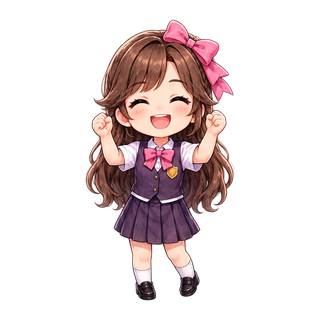
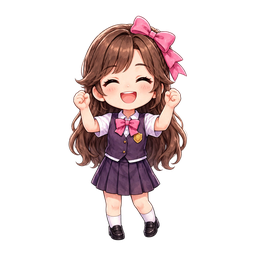
fix(rebus): seat students behind larger desks with 256px POT sprites

diff --git a/games/duoi-hinh-bat-chu/src/game/visuals/StudentCharacter.ts b/games/duoi-hinh-bat-chu/src/game/visuals/StudentCharacter.ts
@@ -18,13 +18,14 @@ export class StudentCharacter extends Phaser.GameObjects.Container {
   private avatarManager: AvatarManager;
   private skinId: string;
   private chibiSprite: Phaser.GameObjects.Sprite;
-  private poseTimer?: Phaser.Time.TimerEvent;
+  private uiOverlay: Phaser.GameObjects.Container;
   private nameText: Phaser.GameObjects.Text;
   private scoreText: Phaser.GameObjects.Text;
   private avatarImage: Phaser.GameObjects.Image | null = null;
   private avatarCircle: Phaser.GameObjects.Graphics;
   private streakBadge: Phaser.GameObjects.Container;
   private streakText: Phaser.GameObjects.Text;
+  private poseTimer?: Phaser.Time.TimerEvent;
 
   constructor(scene: Phaser.Scene, player: RebusPlayerRecord, avatarManager: AvatarManager, x: number, y: number, scale: number) {
     super(scene, x, y);
@@ -35,43 +36,47 @@ export class StudentCharacter extends Phaser.GameObjects.Container {
     this.skinId = SKIN_KEYS[player.skinIndex % SKIN_KEYS.length];
     const baseKey = `student_${this.skinId}`;
     const textureKey = scene.textures.exists(baseKey) ? baseKey : 'props_desk';
-    this.chibiSprite = scene.add.sprite(0, 0, textureKey);
+    this.chibiSprite = scene.add.sprite(0, 14, textureKey);
     this.chibiSprite.setOrigin(0.5, 0.85);
-    this.chibiSprite.setScale(0.56);
+    this.chibiSprite.setScale(0.72);
     this.add(this.chibiSprite);
+
+    // Overlay UI sits above the desk front layer (depth + 2)
+    this.uiOverlay = scene.add.container(x, y);
+    this.uiOverlay.setScale(scale);
 
     // Desk plate
     const plate = scene.add.graphics();
-    plate.fillStyle(0x0f172a, 0.85);
-    plate.fillRoundedRect(-50, 5, 100, 36, 8);
-    plate.lineStyle(1.5, player.team === 'blue' ? 0x38bdf8 : 0xf59e0b, 0.8);
-    plate.strokeRoundedRect(-50, 5, 100, 36, 8);
-    this.add(plate);
+    plate.fillStyle(0x0f172a, 0.88);
+    plate.fillRoundedRect(-52, 8, 104, 34, 8);
+    plate.lineStyle(1.5, player.team === 'blue' ? 0x38bdf8 : 0xf59e0b, 0.85);
+    plate.strokeRoundedRect(-52, 8, 104, 34, 8);
+    this.uiOverlay.add(plate);
 
-    this.nameText = scene.add.text(0, 14, player.nickname, {
+    this.nameText = scene.add.text(0, 17, player.nickname, {
       fontFamily: 'system-ui, sans-serif',
       fontSize: '13px',
       color: '#ffffff',
       fontStyle: 'bold',
     }).setOrigin(0.5);
-    this.add(this.nameText);
+    this.uiOverlay.add(this.nameText);
 
-    this.scoreText = scene.add.text(0, 29, `${player.score}`, {
+    this.scoreText = scene.add.text(0, 32, `${player.score}`, {
       fontFamily: 'system-ui, sans-serif',
       fontSize: '12px',
       color: '#facc15',
       fontStyle: 'bold',
     }).setOrigin(0.5);
-    this.add(this.scoreText);
+    this.uiOverlay.add(this.scoreText);
 
     this.avatarCircle = scene.add.graphics();
     this.avatarCircle.fillStyle(0x0f172a, 0.9);
-    this.avatarCircle.fillCircle(-32, -45, 16);
+    this.avatarCircle.fillCircle(-34, -44, 15);
     this.avatarCircle.lineStyle(2, 0xffd700, 1);
-    this.avatarCircle.strokeCircle(-32, -45, 16);
-    this.add(this.avatarCircle);
+    this.avatarCircle.strokeCircle(-34, -44, 15);
+    this.uiOverlay.add(this.avatarCircle);
 
-    this.streakBadge = scene.add.container(32, -45);
+    this.streakBadge = scene.add.container(34, -44);
     const flameBg = scene.add.graphics();
     flameBg.fillStyle(0xf97316, 0.95);
     flameBg.fillCircle(0, 0, 13);
@@ -87,11 +92,35 @@ export class StudentCharacter extends Phaser.GameObjects.Container {
     }).setOrigin(0.5);
     this.streakBadge.add(this.streakText);
     this.streakBadge.setVisible(player.streak >= 2);
-    this.add(this.streakBadge);
+    this.uiOverlay.add(this.streakBadge);
 
     this.setupAvatar();
     this.startIdleAnimation();
     scene.add.existing(this);
+  }
+
+  public override setPosition(x?: number, y?: number, z?: number, w?: number): this {
+    super.setPosition(x, y, z, w);
+    this.uiOverlay?.setPosition(this.x, this.y);
+    return this;
+  }
+
+  public override setScale(x: number, y?: number): this {
+    super.setScale(x, y);
+    this.uiOverlay?.setScale(this.scaleX, this.scaleY);
+    return this;
+  }
+
+  public override setDepth(value: number): this {
+    super.setDepth(value);
+    this.uiOverlay?.setDepth(value + 2);
+    return this;
+  }
+
+  public override destroy(fromScene?: boolean): void {
+    this.poseTimer?.remove(false);
+    this.uiOverlay?.destroy(fromScene);
+    super.destroy(fromScene);
   }
 
   private setupAvatar(): void {
@@ -100,9 +129,9 @@ export class StudentCharacter extends Phaser.GameObjects.Container {
         const texKey = this.avatarManager.getTextureKey(this.player.userId);
         if (this.scene.textures.exists(texKey)) {
           if (this.avatarImage) this.avatarImage.destroy();
-          this.avatarImage = this.scene.add.image(-32, -45, texKey);
-          this.avatarImage.setDisplaySize(30, 30);
-          this.add(this.avatarImage);
+          this.avatarImage = this.scene.add.image(-34, -44, texKey);
+          this.avatarImage.setDisplaySize(28, 28);
+          this.uiOverlay.add(this.avatarImage);
         }
       });
     }
@@ -125,7 +154,7 @@ export class StudentCharacter extends Phaser.GameObjects.Container {
     const delay = Math.random() * 1000;
     this.scene.tweens.add({
       targets: this.chibiSprite,
-      y: -3,
+      y: 11,
       duration: 1200 + Math.random() * 400,
       yoyo: true,
       repeat: -1,

diff --git a/games/duoi-hinh-bat-chu/src/game/scenes/RebusScene.ts b/games/duoi-hinh-bat-chu/src/game/scenes/RebusScene.ts
@@ -116,19 +116,33 @@ export class RebusScene extends Phaser.Scene {
       fontFamily: 'system-ui, sans-serif', fontSize: '13px', color: '#fff7d6', fontStyle: 'bold',
     }).setOrigin(0.5).setDepth(13);
 
+    const deskLayers = new Map<number, Phaser.GameObjects.Graphics>();
+
     this.seatAllocator.seats.forEach((seat) => {
+      // Back chair/cushion behind the student
       room.fillStyle(0x8b451f, 0.7);
-      room.fillRoundedRect(seat.x - 44, seat.y - 39, 88, 61, 11);
+      room.fillRoundedRect(seat.x - 44, seat.y - 38, 88, 46, 11);
       room.fillStyle(0xffe7ac, 1);
-      room.fillRoundedRect(seat.x - 42, seat.y - 41, 84, 58, 9);
+      room.fillRoundedRect(seat.x - 42, seat.y - 40, 84, 44, 9);
       room.lineStyle(1.5, 0xb86b30, 1);
-      room.strokeRoundedRect(seat.x - 42, seat.y - 41, 84, 58, 9);
-      room.fillStyle(0xe5a25b, 1);
-      room.fillRoundedRect(seat.x - 43, seat.y + 6, 86, 18, 5);
-      room.fillStyle(0xffd887, 1);
-      room.fillRoundedRect(seat.x - 38, seat.y + 8, 76, 5, 2);
-      room.fillStyle(0xc7814d, 0.65);
-      room.fillCircle(seat.x, seat.y - 19, 12);
+      room.strokeRoundedRect(seat.x - 42, seat.y - 40, 84, 44, 9);
+      room.fillStyle(0xc7814d, 0.55);
+      room.fillCircle(seat.x, seat.y - 19, 11);
+
+      // Front wooden desk in front of the student's legs so they appear seated
+      let desk = deskLayers.get(seat.depth);
+      if (!desk) {
+        desk = this.add.graphics().setDepth(seat.depth + 1);
+        deskLayers.set(seat.depth, desk);
+      }
+      desk.fillStyle(0x8b451f, 0.75);
+      desk.fillRoundedRect(seat.x - 45, seat.y - 2, 90, 23, 6);
+      desk.fillStyle(0xe5a25b, 1);
+      desk.fillRoundedRect(seat.x - 44, seat.y - 2, 88, 21, 5);
+      desk.lineStyle(1.5, 0x9c5522, 1);
+      desk.strokeRoundedRect(seat.x - 44, seat.y - 2, 88, 21, 5);
+      desk.fillStyle(0xffdf99, 1);
+      desk.fillRoundedRect(seat.x - 41, seat.y, 82, 6, 3);
     });
   }
 

diff --git a/games/duoi-hinh-bat-chu/src/game/systems/SeatAllocator.ts b/games/duoi-hinh-bat-chu/src/game/systems/SeatAllocator.ts
@@ -20,21 +20,22 @@ export class SeatAllocator {
   private initSeats(): void {
     // A compact classroom grid keeps every participant visible in portrait video.
     const rowsConfig = [
-      { count: 5, y: 667, scale: 0.42, depth: 30 },
-      { count: 5, y: 737, scale: 0.42, depth: 35 },
-      { count: 5, y: 807, scale: 0.42, depth: 40 },
-      { count: 5, y: 877, scale: 0.42, depth: 45 },
+      { count: 5, y: 668, scale: 0.48, depth: 30 },
+      { count: 5, y: 740, scale: 0.48, depth: 35 },
+      { count: 5, y: 812, scale: 0.48, depth: 40 },
+      { count: 5, y: 884, scale: 0.48, depth: 45 },
     ];
 
     let index = 0;
     rowsConfig.forEach((cfg, rowIdx) => {
-      const stepX = 540 / (cfg.count + 1);
+      const startX = 82;
+      const stepX = 94;
       for (let c = 0; c < cfg.count; c++) {
         this.seats.push({
           index,
           row: rowIdx,
           col: c,
-          x: Math.round(stepX * (c + 1)),
+          x: Math.round(startX + stepX * c),
           y: cfg.y,
           scale: cfg.scale,
           depth: cfg.depth,
